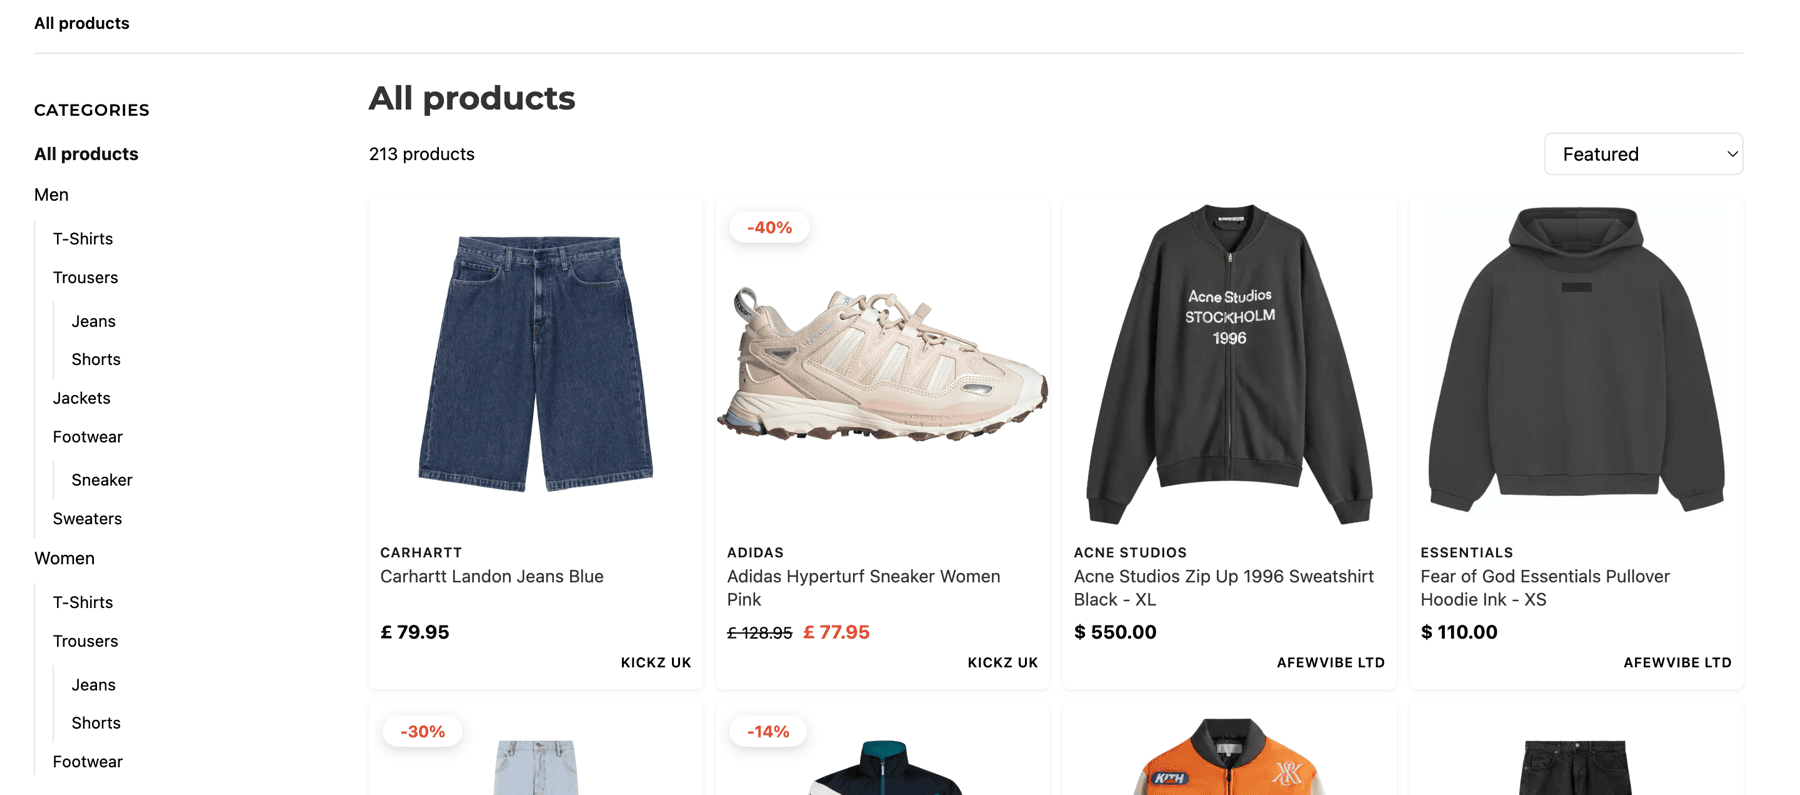
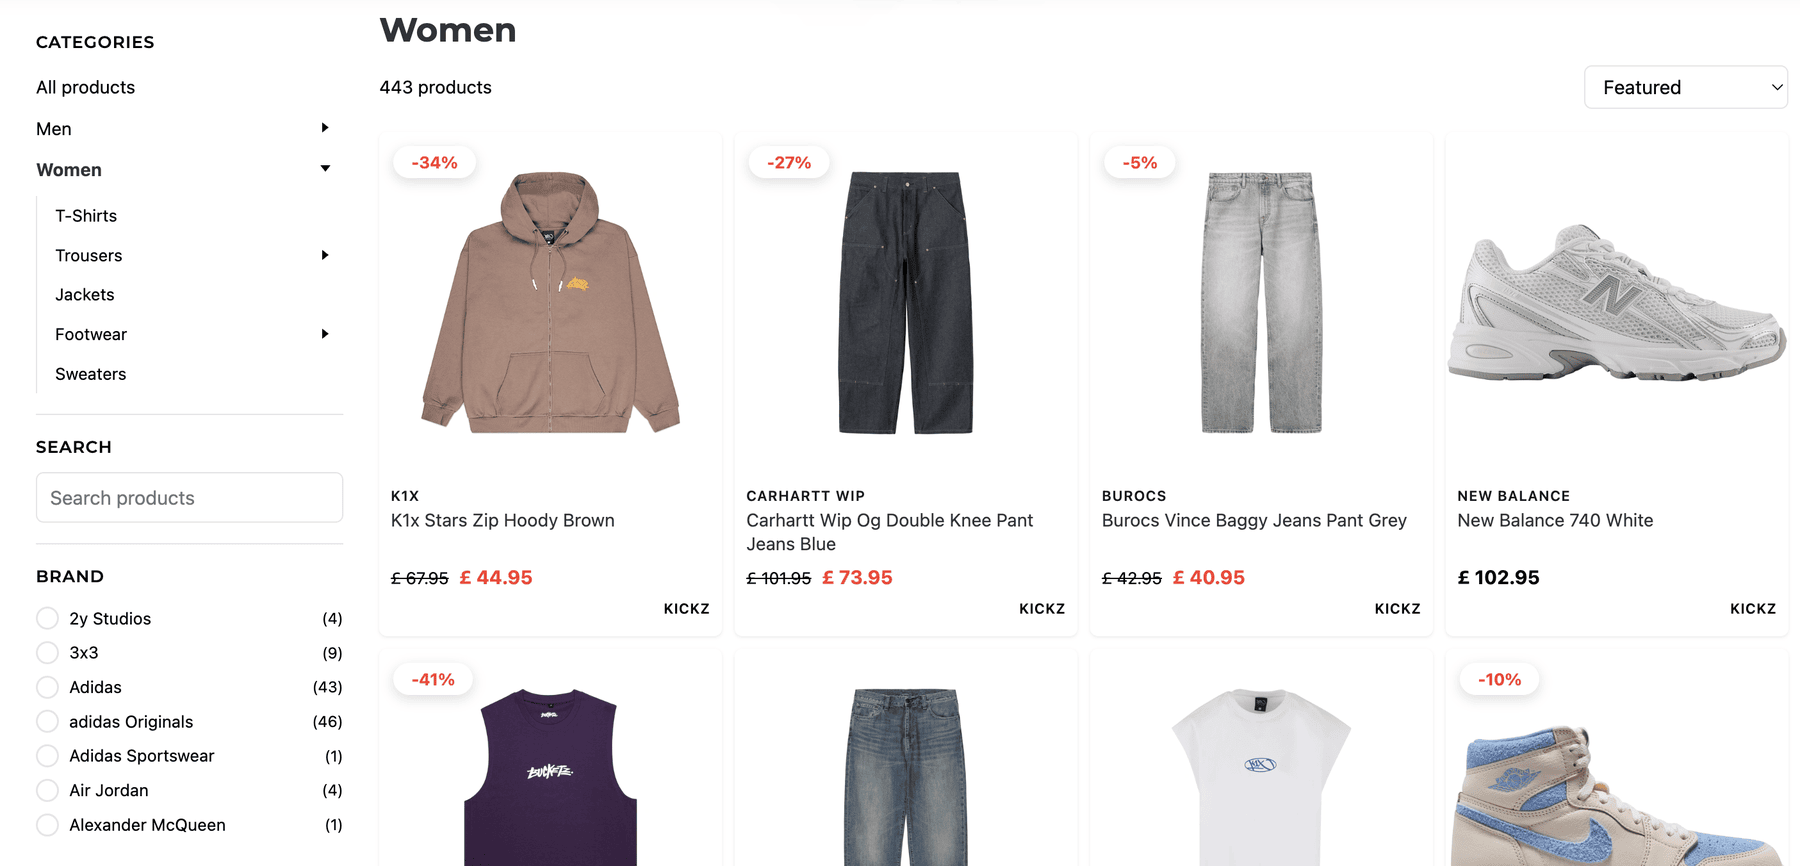
Add the founder portrait, refresh the storefront screenshot
The guide section now shows a real person instead of a monogram, which
is the whole point of that section.

Both files were print-sized. The portrait was 1351x1957 and 625 KB for a
172px circle; cropped square around the face (a centred crop would have
framed the jacket) and down to 560px, 34 KB. The storefront screenshot
was 2810px and 1.4 MB for a frame that renders at ~1000px; capped at
1800px and quantised like the others, 1.4 MB to 160 KB.

The new screenshot is a much better argument than the old one: category
tree, brand filters with counts, search, sorting and discount badges all
visible at once.

diff --git a/v2/index.html b/v2/index.html
@@ -105,9 +105,9 @@ nav .container{display:flex;align-items:center;justify-content:space-between;hei
 @media(max-width:760px){.guide-card{grid-template-columns:1fr;gap:24px;text-align:center}}
 .guide-portrait{position:relative;width:172px;height:172px;border-radius:50%;overflow:hidden;background:var(--surface);border:1px solid var(--line);display:flex;align-items:center;justify-content:center;justify-self:center}
 /* The photo sits on top of the monogram rather than replacing it, so a
-   missing file degrades to the initial instead of a broken frame.
-   object-position keeps the face centred on a portrait-orientation shot. */
-.guide-portrait img{position:absolute;inset:0;width:100%;height:100%;object-fit:cover;object-position:50% 22%}
+   missing file degrades to the initial instead of a broken frame. The
+   file itself is already cropped square around the face, so no offset. */
+.guide-portrait img{position:absolute;inset:0;width:100%;height:100%;object-fit:cover}
 .guide-portrait .gp-fallback{font-family:var(--serif);font-size:2.6rem;color:var(--accent);font-weight:600}
 .guide-body h2{font-size:clamp(1.5rem,3vw,2.1rem);line-height:1.2;margin-bottom:14px}
 .guide-body p{color:var(--ink-soft);font-size:1.02rem;margin-bottom:12px}

diff --git a/ecommerce/index.html b/ecommerce/index.html
@@ -293,7 +293,7 @@ footer .footer-copy{color:var(--text-muted);font-size:.8rem;margin-top:16px}
 
 <section class="shop-hero-visual reveal"><div class="container">
   <div class="screenshot-frame">
-    <img src="/assets/screenshot-shop-frontend.png" alt="MyFeeds storefront on a WordPress site: All products view with category sidebar and a grid of real product cards" loading="eager">
+    <img src="/assets/screenshot-shop-frontend.png" alt="A MyFeeds storefront on a WordPress site: category sidebar, brand filters with counts, search and a grid of real product cards" loading="eager">
   </div>
   <p class="screenshot-caption">Visitors see your real online shop with categories, filters and sorting. The controls they already know from any modern shop, all on your domain. Every checkout goes through your affiliate link.</p>
 </div></section>
